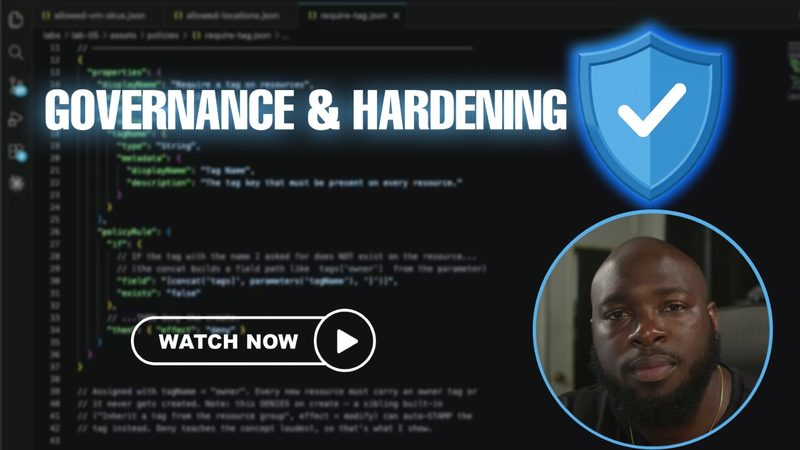
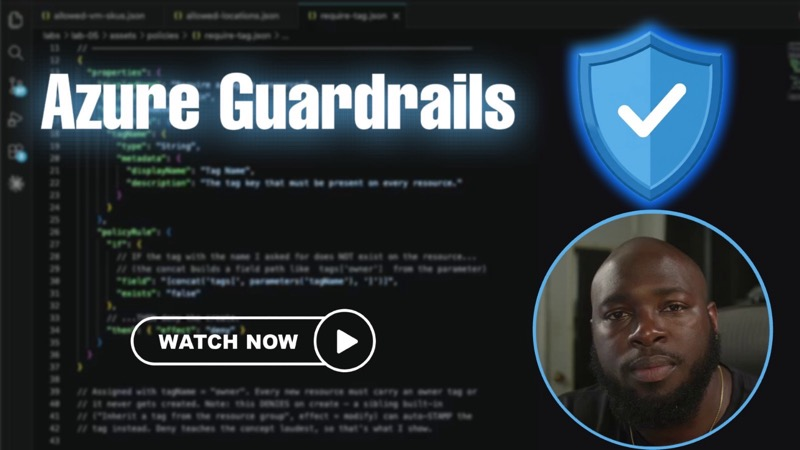
Site: new lab 5 thumbnail reading Azure Guardrails
The old thumbnail read "Governance & Hardening", which no longer matched the
card or the video. Replaced with the new artwork at the site's 800x450, and
bumped the cache-buster to v=3 so browsers and the CDN pick it up instead of
serving the old image from the same URL.

The 1280x720 version is on YouTube.

diff --git a/site/src/projects.html b/site/src/projects.html
@@ -136,7 +136,7 @@
         <!-- 5 -->
         <article class="project-card">
           <a class="thumb" href="https://youtu.be/ILB9stGsmlg" target="_blank" rel="noopener">
-            <img src="img/thumbs/lab-05.jpg?v=2" alt="Azure Guardrails walkthrough" loading="lazy">
+            <img src="img/thumbs/lab-05.jpg?v=3" alt="Azure Guardrails walkthrough" loading="lazy">
             <span class="play" aria-hidden="true"></span>
           </a>
           <span class="project-status status-live">Live</span>
